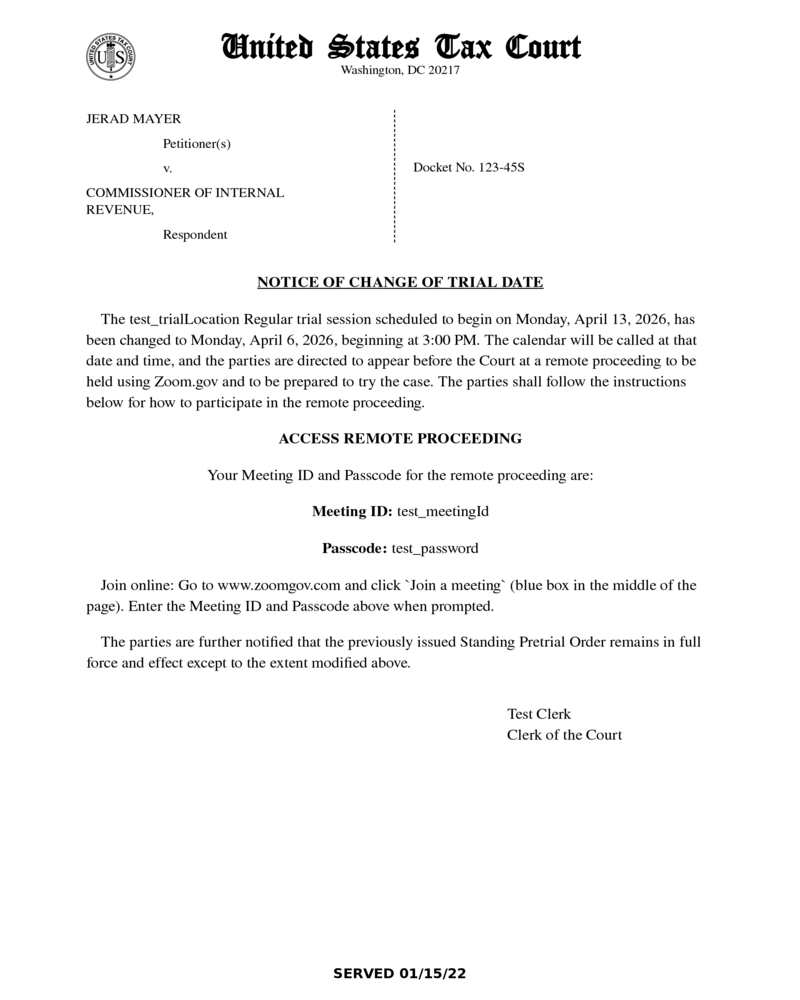
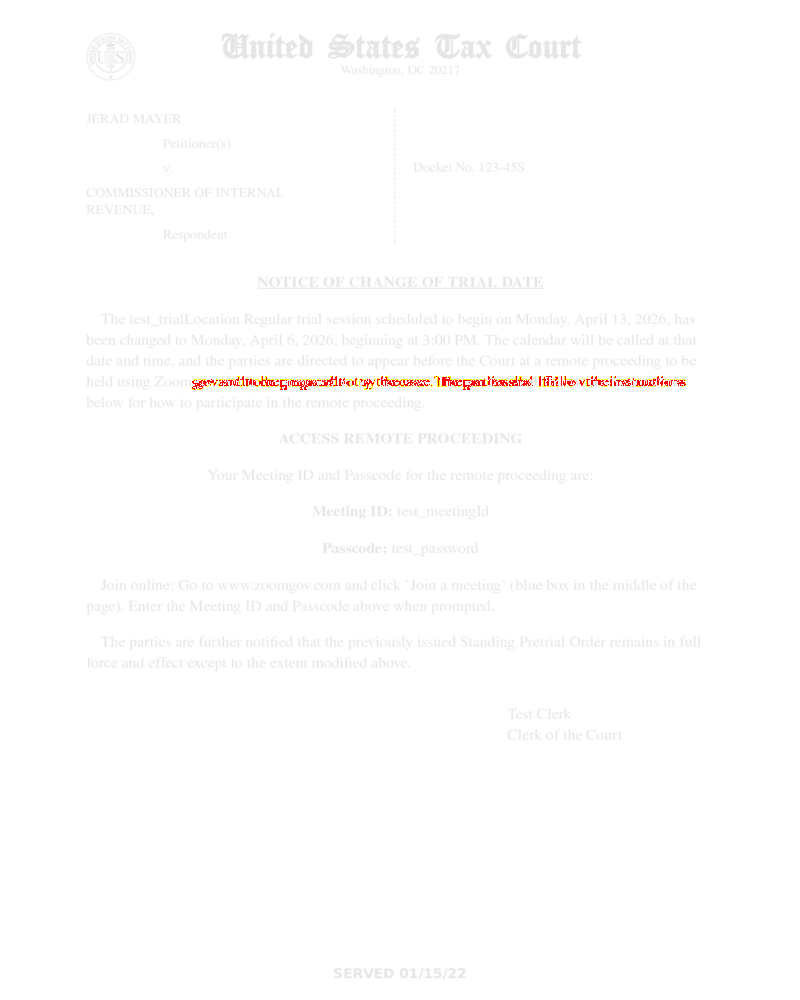
8465: updates zoomgov url address and pdf generation

diff --git a/shared/src/business/utilities/pdfGenerator/documentTemplates/NoticeOfChangeOfTrialStartDate.tsx b/shared/src/business/utilities/pdfGenerator/documentTemplates/NoticeOfChangeOfTrialStartDate.tsx
@@ -83,10 +83,10 @@ function NoticeOfChangeRemote({
           FORMATS.MONTH_DAY_YEAR_WITH_DAY_OF_WEEK,
         )}
         , beginning at{' '}
-        {formatDateString(updatedTrialSession.startTime, FORMATS.TIME_12_HOUR)}. The
-        calendar will be called at that date and time, and the parties are
+        {formatDateString(updatedTrialSession.startTime, FORMATS.TIME_12_HOUR)}.
+        The calendar will be called at that date and time, and the parties are
         directed to appear before the Court at a remote proceeding to be held
-        using Zoom.gov and to be prepared to try the case. The parties shall
+        using Zoomgov and to be prepared to try the case. The parties shall
         follow the instructions below for how to participate in the remote
         proceeding.
       </p>
@@ -123,13 +123,21 @@ function NoticeOfChangeInPerson({
       <p>
         &emsp;The {updatedTrialSession.trialLocation}{' '}
         {updatedTrialSession.sessionType} trial session scheduled to begin on{' '}
-        {formatDateString(previousTrialSession.startDate, FORMATS.MONTH_DAY_YEAR_WITH_DAY_OF_WEEK)},
-        has been changed to{' '}
-        {formatDateString(updatedTrialSession.startDate, FORMATS.MONTH_DAY_YEAR_WITH_DAY_OF_WEEK)},
-        beginning at {formatDateString(updatedTrialSession.startTime, FORMATS.TIME_12_HOUR)}. The calendar will be
-        called at that date and time, and the parties are expected to be present
-        and to be prepared to try the case. The trial session will be held at{' '}
-        {updatedTrialSession.courthouseName}, {updatedTrialSession.address1}{' '}
+        {formatDateString(
+          previousTrialSession.startDate,
+          FORMATS.MONTH_DAY_YEAR_WITH_DAY_OF_WEEK,
+        )}
+        , has been changed to{' '}
+        {formatDateString(
+          updatedTrialSession.startDate,
+          FORMATS.MONTH_DAY_YEAR_WITH_DAY_OF_WEEK,
+        )}
+        , beginning at{' '}
+        {formatDateString(updatedTrialSession.startTime, FORMATS.TIME_12_HOUR)}.
+        The calendar will be called at that date and time, and the parties are
+        expected to be present and to be prepared to try the case. The trial
+        session will be held at {updatedTrialSession.courthouseName},{' '}
+        {updatedTrialSession.address1}{' '}
         {updatedTrialSession.address2 ? `${updatedTrialSession.address2} ` : ''}
         {updatedTrialSession.city} {updatedTrialSession.state}{' '}
         {updatedTrialSession.postalCode}.
